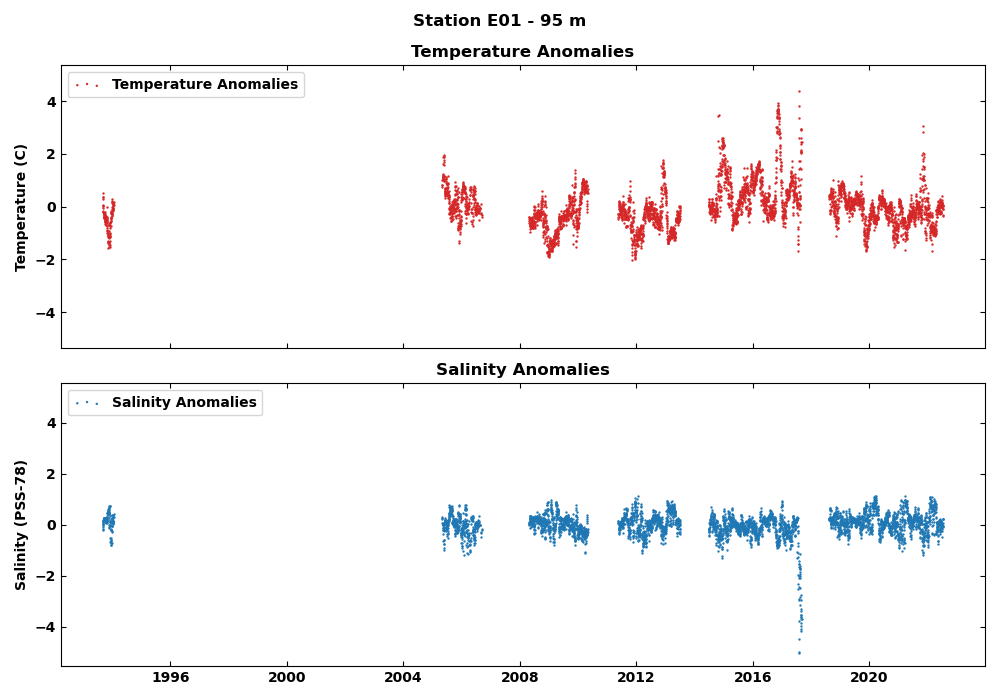
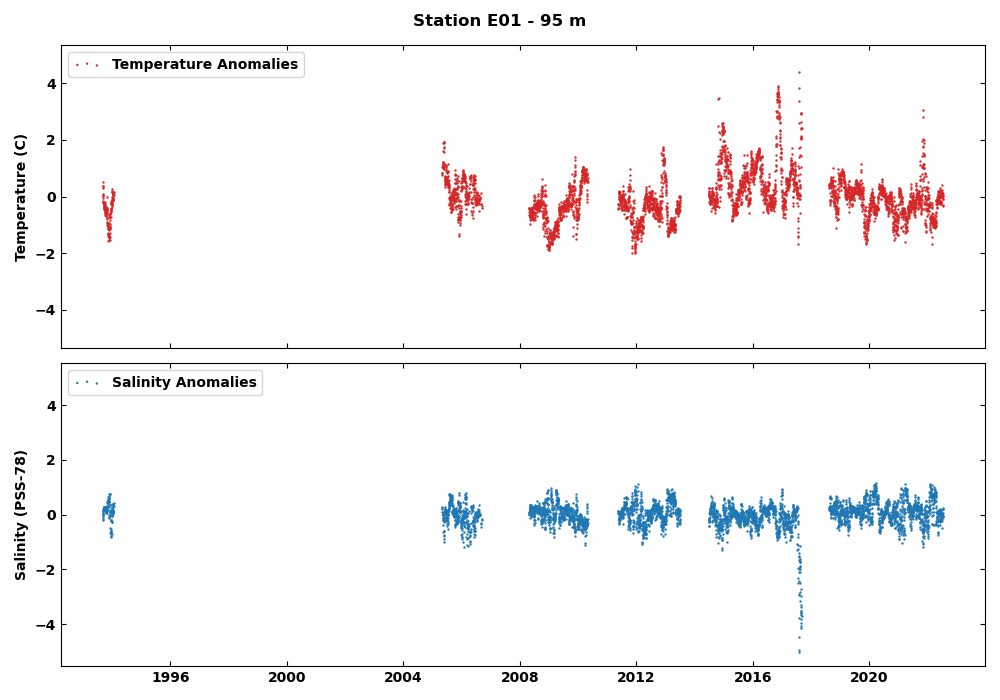
remove subplot titles from daily anomaly plots

diff --git a/scripts/plot_e01_moored_data.py b/scripts/plot_e01_moored_data.py
@@ -524,8 +524,8 @@ def plot_daily_anom(df_daily_mean: pd.DataFrame, output_dir: str):
         ax[0].set_ylim(range_T)
         ax[1].set_ylim(range_S)
 
-        ax[0].set_title('Temperature Anomalies')
-        ax[1].set_title('Salinity Anomalies')
+        # ax[0].set_title('Temperature Anomalies')
+        # ax[1].set_title('Salinity Anomalies')
 
         ax[0].legend(loc='upper left', scatterpoints=3)
         ax[1].legend(loc='upper left', scatterpoints=3)
